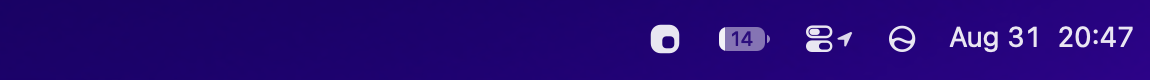
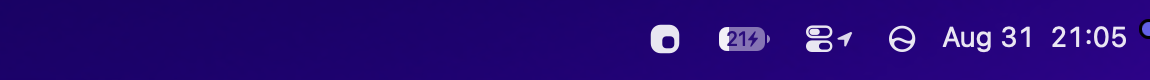
Marketing screenshots: generic-app restage + reusable mock kit
- Bar collapsed/revealed pair recaptured with a staged generic set
  (Snib, camera stand-in, separator, Claude, Velja, PopClip)
- Editor screenshot rebuilt as a composite: real full-height window base
  (resized so no content is cut), Hidden + Always Hidden rows re-rendered
  from config with generic apps (Google Drive, Notion, Discord, Zoom,
  SoundSource)
- marketing/menubar-mock/: tweakable compositor (index.html config, 21-icon
  library, bases, README with render recipe) for future marketing needs

Changed region(s): [[0.8217, 0.25, 1.0, 0.65], [0.6087, 0.35, 0.6696, 0.625]]

diff --git a/marketing/menubar-mock/index.html b/marketing/menubar-mock/index.html
@@ -1,0 +1,99 @@
+<!doctype html>
+<meta charset="utf-8">
+<title>Pelmet settings mock — marketing compositor</title>
+<style>
+  html,body{margin:0;padding:0;background:#111}
+  #stage{position:relative;width:1560px;height:1800px;overflow:hidden}
+  #bg{position:absolute;left:0;top:0;width:1560px;height:1800px}
+  .patch{position:absolute}
+  .tile{position:absolute;text-align:center}
+  .tile img,.tile canvas{width:64px;height:64px;display:block;margin:0 auto}
+  .tile .lb{margin-top:12px;font:400 24px/1 -apple-system,'SF Pro Text',system-ui,sans-serif;
+    letter-spacing:.2px;white-space:nowrap;overflow:hidden;text-overflow:ellipsis}
+  .sq{width:64px;height:64px;border-radius:14px;margin:0 auto;position:relative}
+  .sq .dot{position:absolute;left:50%;top:50%;width:7px;height:7px;border-radius:50%;
+    transform:translate(-50%,-50%)}
+  .sq .pipe{position:absolute;left:50%;top:50%;width:3px;height:30px;border-radius:2px;
+    transform:translate(-50%,-50%)}
+</style>
+<div id="stage">
+  <img id="bg" src="base-menubar.png">
+  <div id="layers"></div>
+</div>
+<script>
+/* ================= EDIT ME =================
+   Tile spec: {icon:'icons/x.png', label:'X'}   app icon tile
+              {sprite:[cx,cy], label:'X'}       64px crop lifted from the base image
+              {sep:'pipe'} | {sep:'dot'}        separator tile
+   Rows are laid out right-to-left, right-aligned like the real editor.        */
+const HIDDEN = [
+  {icon:'icons/snib.png',   label:'Snib'},
+  {sprite:[1355,696],       label:'Pelmet'},   // camera & mic stand-in glyph
+  {sep:'pipe'},
+  {icon:'icons/claude.png', label:'Claude'},
+  {icon:'icons/velja.png',  label:'Velja'},
+  {icon:'icons/popclip.png',label:'PopClip'},
+];
+const ALWAYS_HIDDEN = [
+  {icon:'icons/gdrive.png',      label:'Google Drive'},
+  {icon:'icons/notion.png',      label:'Notion'},
+  {icon:'icons/discord.png',     label:'Discord'},
+  {icon:'icons/zoom.png',        label:'zoom.us'},
+  {icon:'icons/soundsource.png', label:'SoundSource'},
+  {sep:'dot'},
+];
+/* =========== END EDIT ME =========== */
+
+// Geometry of the two editor rows in base-menubar.png (image px, @2x).
+const ROWS = [
+  {items: HIDDEN,        iconY: 664, patch:[600,662,900,110], sample:[500,711]},
+  {items: ALWAYS_HIDDEN, iconY: 900, patch:[600,892,900,112], sample:[500,947]},
+];
+const RIGHT_EDGE = 1490, GAP = 26, MAXW = 130, SEP_SQ = [1109,900];
+
+window.ready = new Promise(res => {
+  const bg = document.getElementById('bg');
+  bg.onload = () => {
+    const c = document.createElement('canvas');
+    c.width = 1560; c.height = 1800;
+    const g = c.getContext('2d');
+    g.drawImage(bg, 0, 0, 1560, 1800);
+    g.font = "400 24px -apple-system, 'SF Pro Text', system-ui, sans-serif";
+    const px = (x,y) => { const d = g.getImageData(x,y,1,1).data; return `rgb(${d[0]},${d[1]},${d[2]})`; };
+    const labelColor = 'rgb(152,146,162)';
+    const sepFill = px(SEP_SQ[0], SEP_SQ[1] + 10), sepInk = 'rgb(207,202,216)';
+    const layers = document.getElementById('layers');
+    for (const row of ROWS) {
+      const p = document.createElement('div');
+      p.className = 'patch';
+      const [x,y,w,h] = row.patch;
+      Object.assign(p.style, {left:x+'px', top:y+'px', width:w+'px', height:h+'px',
+                              background: px(row.sample[0], row.sample[1])});
+      layers.appendChild(p);
+      let cursor = RIGHT_EDGE;
+      for (let i = row.items.length - 1; i >= 0; i--) {
+        const it = row.items[i];
+        const label = it.sep ? 'Separator' : it.label;
+        const w2 = Math.max(64, Math.min(Math.ceil(g.measureText(label).width) + 4, MAXW));
+        const t = document.createElement('div');
+        t.className = 'tile';
+        Object.assign(t.style, {width:w2+'px', left:(cursor-w2)+'px', top:row.iconY+'px'});
+        let inner;
+        if (it.sep) {
+          inner = `<div class="sq" style="background:${sepFill}"><div class="${it.sep}" style="background:${sepInk}"></div></div>`;
+        } else if (it.sprite) {
+          const cv = document.createElement('canvas'); cv.width = 64; cv.height = 64;
+          cv.getContext('2d').drawImage(bg, it.sprite[0]-32, it.sprite[1]-32, 64, 64, 0, 0, 64, 64);
+          inner = `<img src="${cv.toDataURL()}">`;
+        } else {
+          inner = `<img src="${it.icon}">`;
+        }
+        t.innerHTML = `${inner}<div class="lb" style="color:${labelColor}">${label}</div>`;
+        layers.appendChild(t);
+        cursor -= w2 + GAP;
+      }
+    }
+    res(true);
+  };
+});
+</script>

diff --git a/marketing/menubar-mock/README.md b/marketing/menubar-mock/README.md
@@ -1,0 +1,56 @@
+# Settings-window mock — marketing compositor
+
+Reusable, tweakable recreation of Pelmet's Settings → Menu Bar window for
+marketing (README, site, posts). A real full-window screenshot is the base;
+only the two editor rows are re-rendered from a config, so the result is
+pixel-faithful everywhere else and never leaks a personal setup.
+
+## Tweak
+
+Edit the `EDIT ME` block at the top of `index.html`:
+
+```js
+{icon:'icons/x.png', label:'X'}   // app icon tile
+{sprite:[cx,cy],     label:'X'}   // 64px tile lifted from the base image
+{sep:'pipe'} / {sep:'dot'}        // separator tile
+```
+
+Rows lay out right-to-left, right-aligned, with the editor's variable tile
+widths and label ellipsis.
+
+## Render
+
+```sh
+cd marketing/menubar-mock && python3 -m http.server 8438
+```
+
+Then screenshot the `#stage` element at 1560×1800 (Playwright:
+`page.locator('#stage').screenshot(...)` — `file://` is blocked by the
+browser tools, hence the server). Output is @2x; display at 780px wide.
+
+## Icons
+
+`icons/` holds 128px PNGs extracted from locally installed apps:
+
+```sh
+sips -s format png -Z 128 "/Applications/X.app/Contents/Resources/<CFBundleIconFile>.icns" --out icons/x.png
+```
+
+Library: gdrive, notion, discord, zoom, soundsource, snib, claude, velja,
+popclip, bitwarden, figma, obsidian, signal, whatsapp, vscode,
+monitorcontrol, windscribe, 1blocker, arc, purepaste, unclutter.
+For apps not installed (1Password, Raycast, Slack, Spotify…), drop an icon
+PNG in `icons/` from the vendor's press kit and reference it.
+
+## Regenerating the base
+
+Resize the Settings window until **every section is fully visible — never
+ship a screenshot with cut content** (System Events: set size to
+`{780, 900}` fits the Menu Bar tab today), then:
+
+```sh
+screencapture -x -R<x>,<y>,780,900 base-menubar.png
+```
+
+If the row geometry moves, update `ROWS` / `RIGHT_EDGE` in `index.html`.
+`base-general.png` is a spare full-height General-tab capture.
